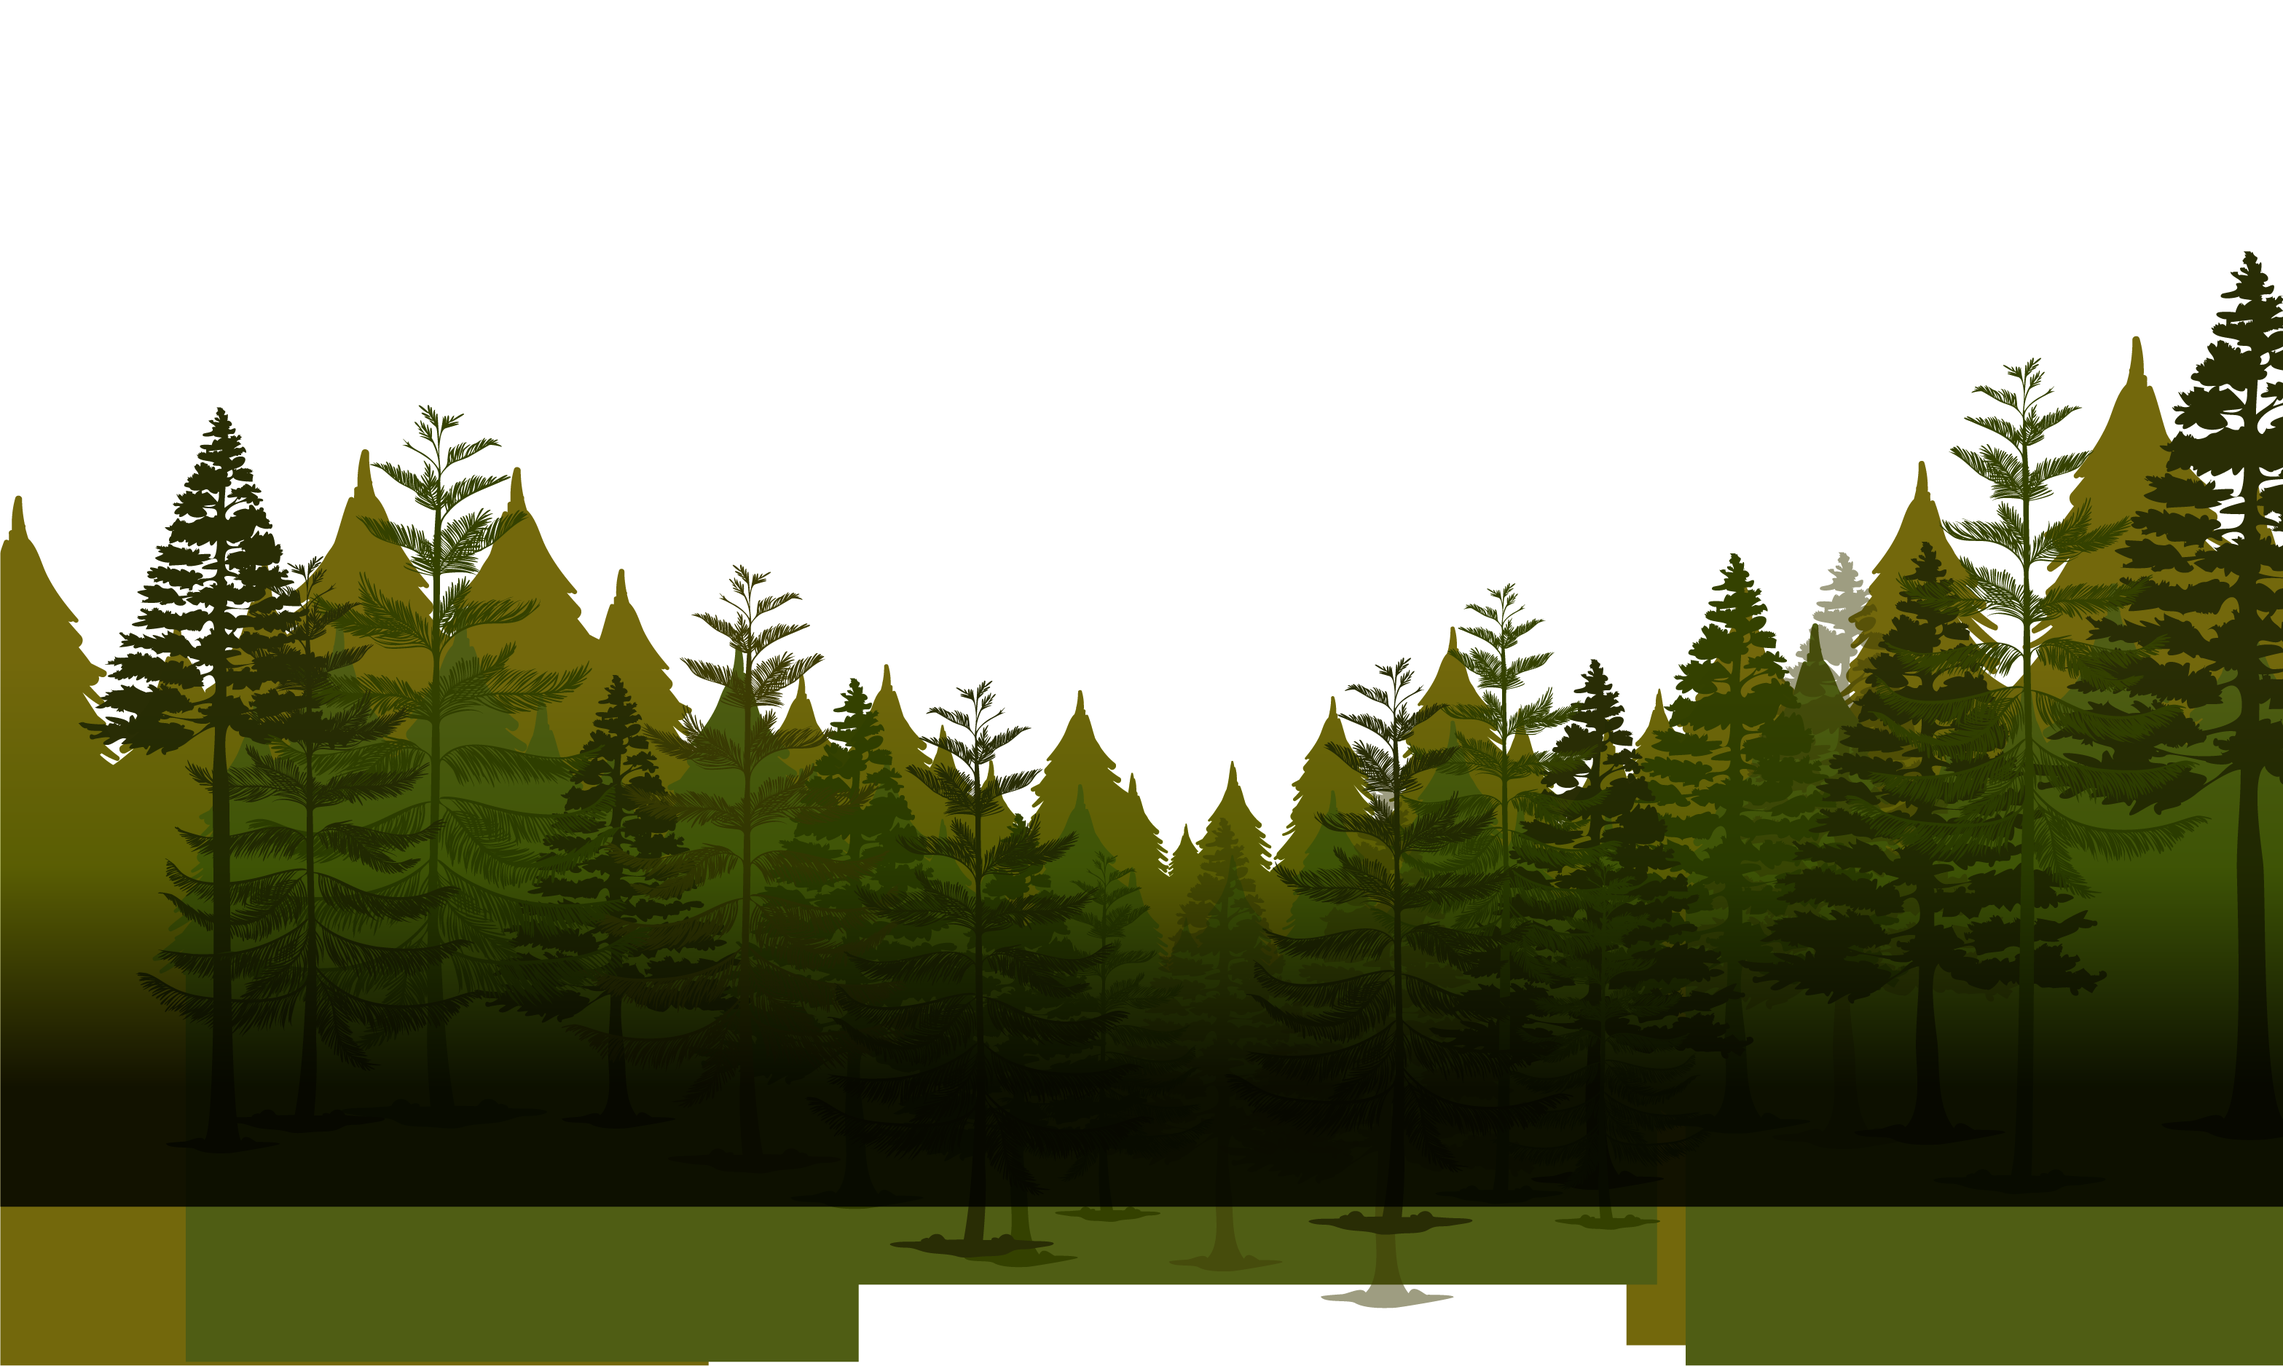
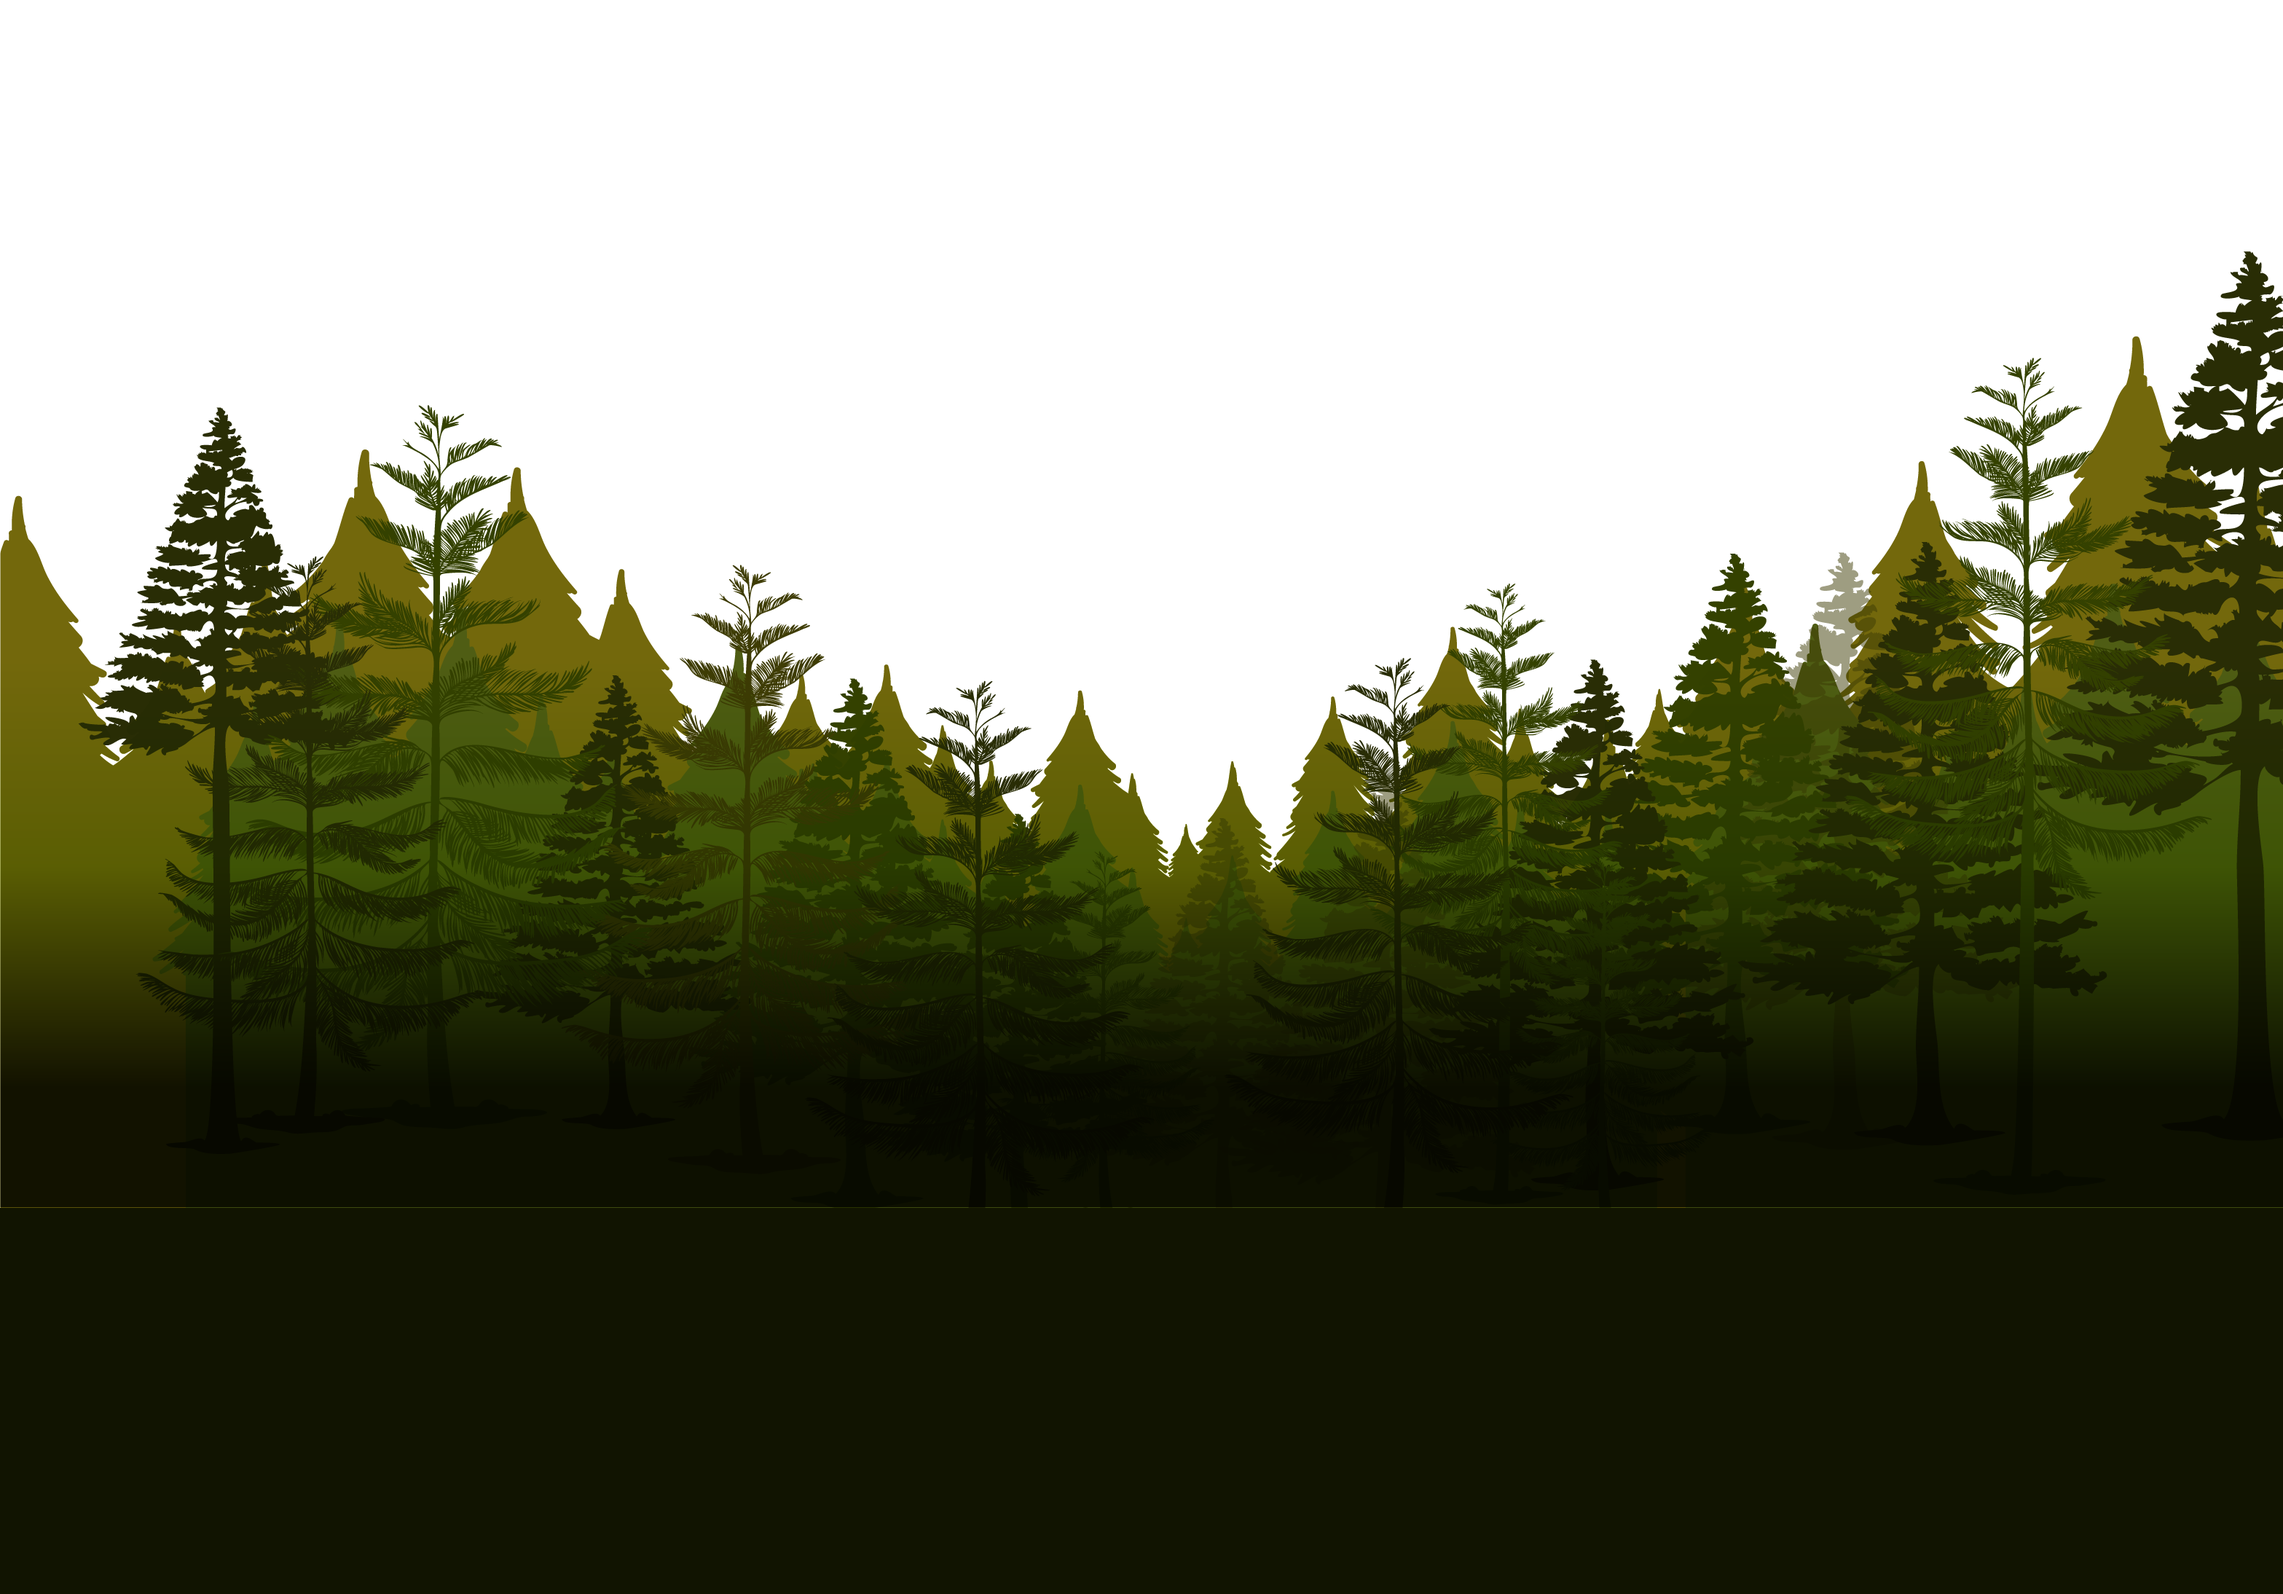
Completed Landing

diff --git a/src/Components/Landing/Landing.jsx b/src/Components/Landing/Landing.jsx
@@ -33,7 +33,11 @@ const Landing = () => {
                         src={require("/Astrobot-Rover/Frontend/src/Assets/Landing/tress.png")}
                         className="image"
                         loading="lazy"
+                        style={{
+                            top: `${20 - scrollValue * 0.484}px`,
+                        }}
                     />
+
                     <img
                         alt=""
                         src={require("/Astrobot-Rover/Frontend/src/Assets/Landing/river.png")}
@@ -49,16 +53,13 @@ const Landing = () => {
 
                     <img
                         alt=""
-                          src={require("/Astrobot-Rover/Frontend/src/Assets/Landing/rock-right.png")}
+                        src={require("/Astrobot-Rover/Frontend/src/Assets/Landing/rock-right.png")}
                         className="image"
                         loading="lazy"
-                        style={{
-                            // top: `${-85 - scrollValue * 0.182}px`,
-                        }}
                     />
                     <img
                         alt=""
-                          src={require("/Astrobot-Rover/Frontend/src/Assets/Landing/bridge-left.png")}
+                        src={require("/Astrobot-Rover/Frontend/src/Assets/Landing/bridge-left.png")}
                         className="image"
                         loading="lazy"
                         style={{
@@ -66,19 +67,39 @@ const Landing = () => {
                         }} />
                     <img
                         alt=""
-                          src={require("/Astrobot-Rover/Frontend/src/Assets/Landing/bridge-right.png")}
+                        src={require("/Astrobot-Rover/Frontend/src/Assets/Landing/bridge-right.png")}
                         className="image"
-                        // loading="lazy"
+                        loading="lazy"
                         style={{
                             left: `${60 + scrollValue * 0.25}px`,
                         }} />
+
+                    <img
+                        alt=""
+                        src={require("/Astrobot-Rover/Frontend/src/Assets/Landing/pigeon.png")}
+                        className="image"
+                        loading="lazy"
+                        style={{
+                            top: `${-65 - scrollValue * 0.55}px`,
+                            left: `${60 + scrollValue * 0.25}px`,
+                        }} />
+
+                    <img
+                        alt=""
+                        src={require("/Astrobot-Rover/Frontend/src/Assets/Landing/pegion2.png")}
+                        className="image"
+                        loading="lazy"
+                        style={{
+                            left: `${210 - scrollValue * 0.484}px`,
+                            top: `${135 - scrollValue * 0.182}px`,
+                        }} />
                 </div>
 
-                {/* <div className="land_text"
-                  style={{ top: `calc(40% + ${scrollValue * 0.8}px)` }}>
-                  <h2>It's time for a new </h2>
-                  <span>Adventure</span>
-              </div> */}
+                <div className="land_text"
+                    style={{ top: `calc(40% + ${scrollValue * 0.8}px)` }}>
+                    <h2>Fusing Dreams and Tech into </h2>
+                    <span>Tomorrow's Reality</span>
+                </div>
             </div>
         </>
     );

diff --git a/src/Components/global.css b/src/Components/global.css
@@ -1,4 +1,4 @@
-@import url('https://fonts.googleapis.com/css2?family=K2D:ital,wght@0,100;0,200;0,300;0,400;0,500;0,600;0,700;0,800;1,100;1,200;1,300;1,400;1,500;1,600;1,700;1,800&family=Kavoon&family=Molle&display=swap');
+@import url('https://fonts.googleapis.com/css2?family=Julee&family=K2D:ital,wght@0,100;0,200;0,300;0,400;0,500;0,600;0,700;0,800;1,100;1,200;1,300;1,400;1,500;1,600;1,700;1,800&family=Kavoon&display=swap');
 
 * {
   margin: 0;
@@ -8,9 +8,11 @@
 
 /* Root Variables */
 :root {
-  --paragraph: 'K2D';
-  --h1: 'Kavoon';
-  --h2: 'Molle';
+  --paragraph: 'K2D', sans-serif;
+  --h1: 'Kavoon', serif;
+  --h2:'Julee', cursive;
+
   --primary-color: #000000;
   --secondary-color: #ffffff;
+  --third-color:#69D4DF;
 }
